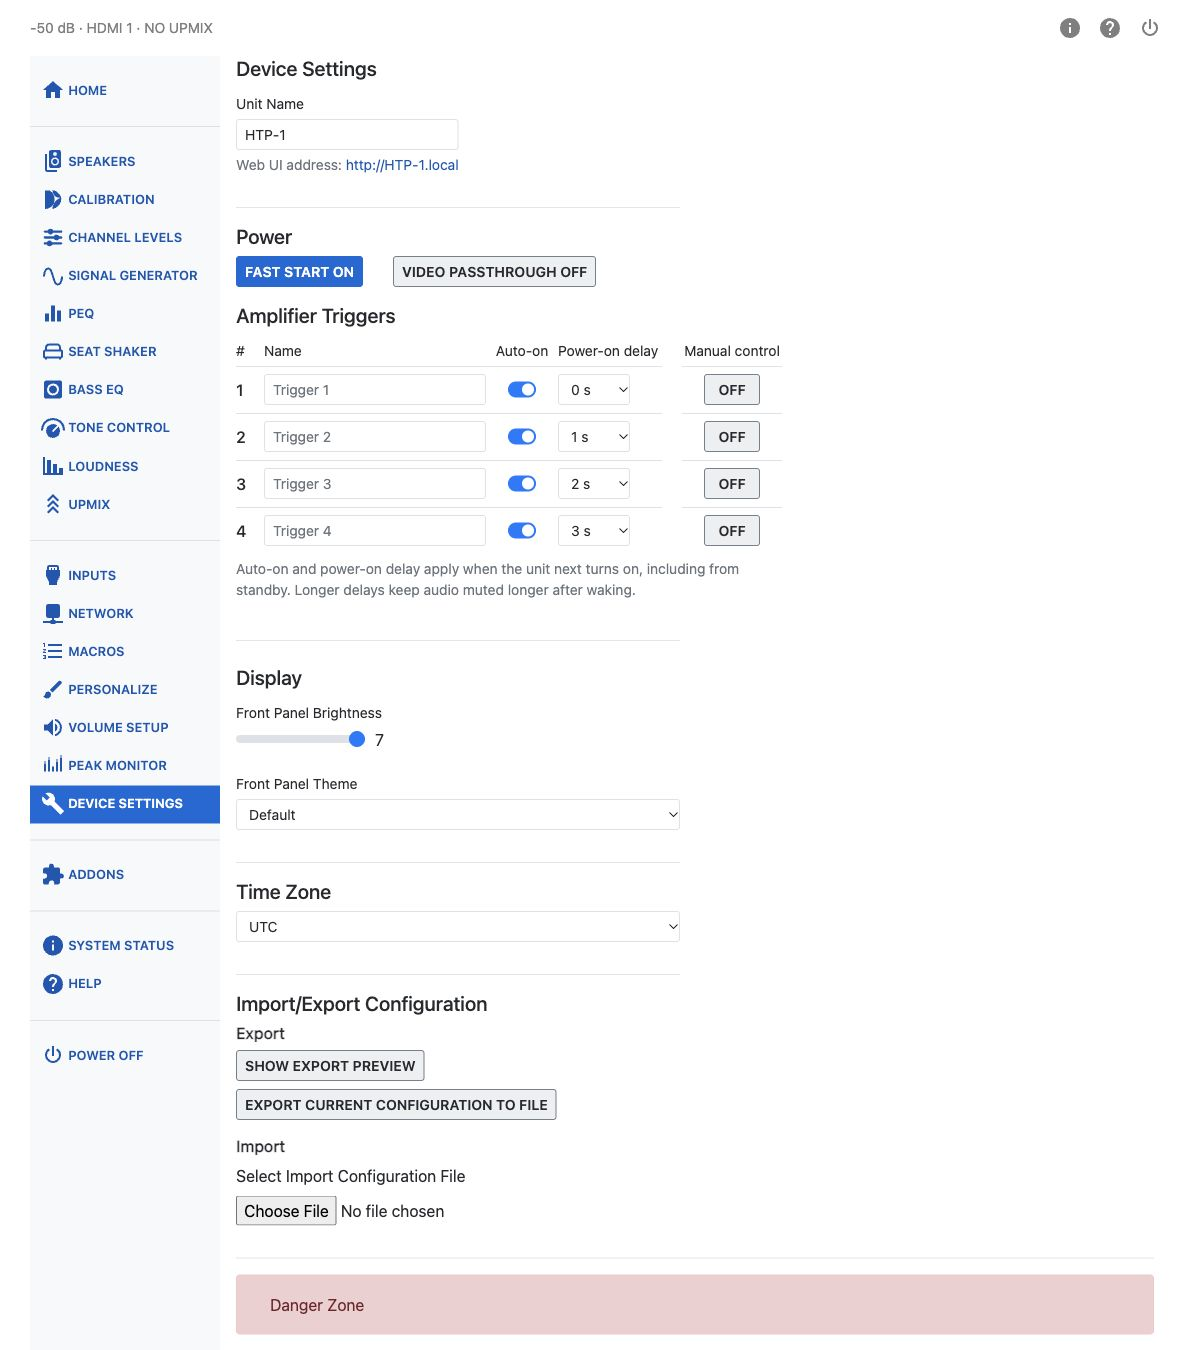
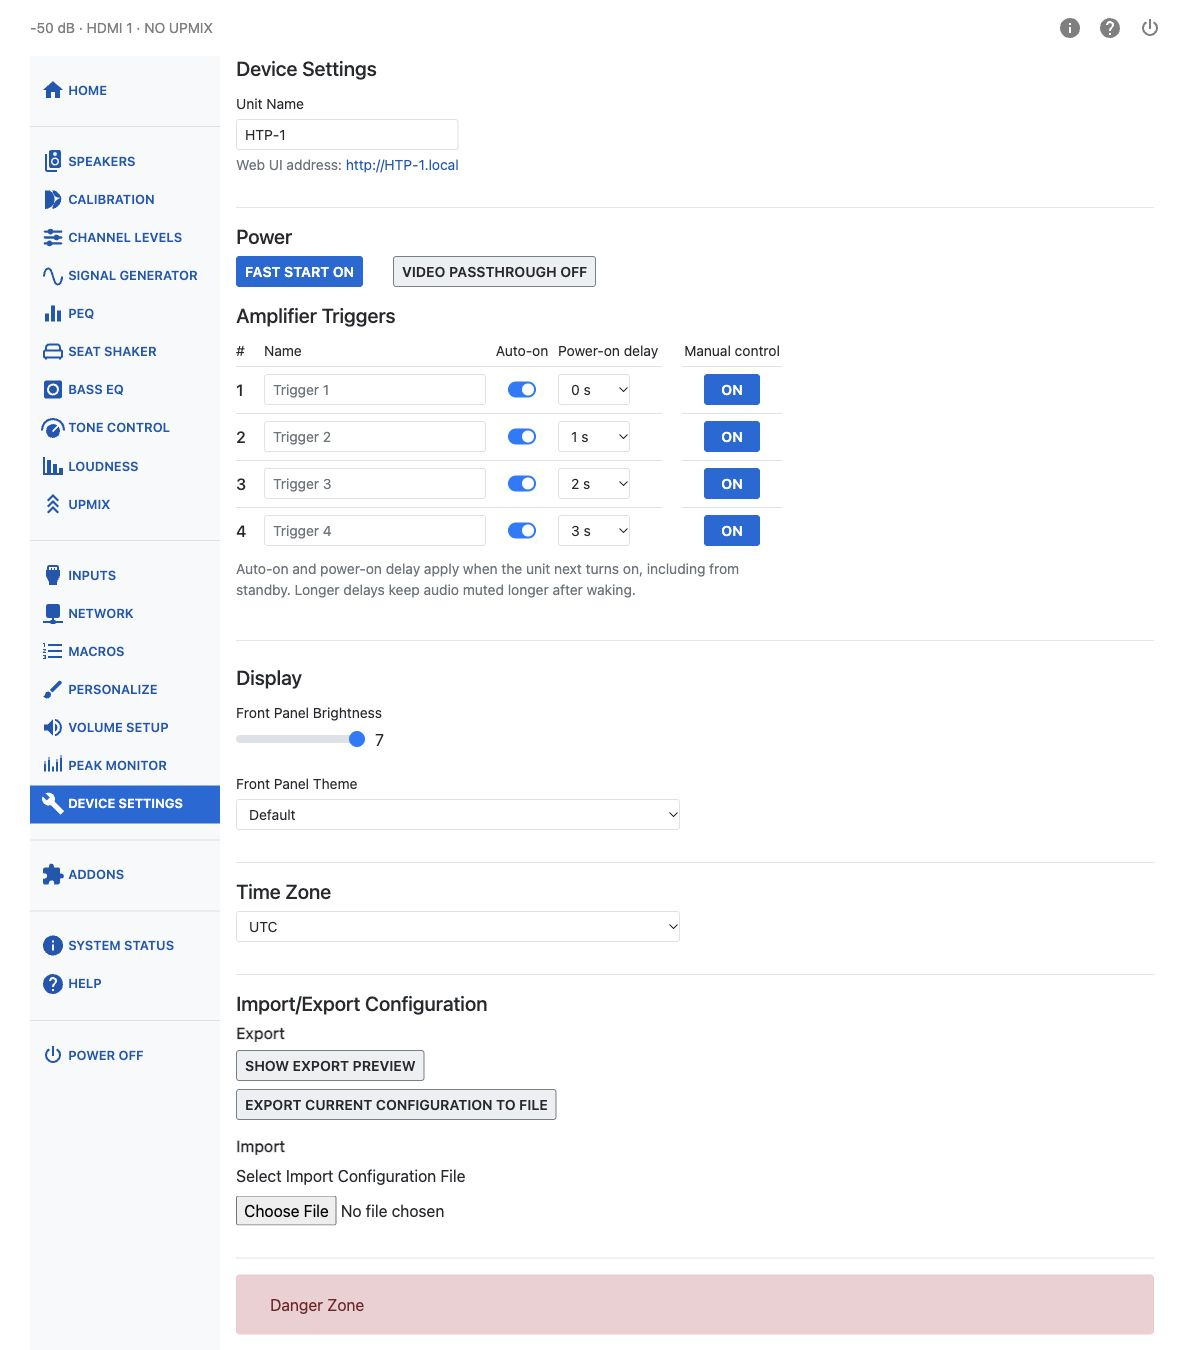
docs: correct Fast Start default and trigger screenshot

Changed region(s): [[0.5858, 0.28, 0.6475, 0.4044]]

diff --git a/docs/user-guide/device-settings.md b/docs/user-guide/device-settings.md
@@ -18,9 +18,9 @@ and open `htp-1.local`.
 
 **Fast Start** and **Video Passthrough** are two-state switches.
 
-**Fast Start off — Slow Boot (default):** The HTP-1 powers down virtually all internal components, reducing standby power consumption to less than **0.5 W**. The front panel becomes operational in approximately **1 minute 40 seconds**, while additional initialization continues in the background and may take up to **2 minutes 30 seconds** to complete. CEC features such as automatic power-on are unavailable in this standby mode, though trigger inputs still work.
+**Fast Start off — Slow Boot:** The HTP-1 powers down virtually all internal components, reducing standby power consumption to less than **0.5 W**. The front panel becomes operational in approximately **1 minute 40 seconds**, while additional initialization continues in the background and may take up to **2 minutes 30 seconds** to complete. CEC features such as automatic power-on are unavailable in this standby mode, though trigger inputs still work.
 
-**Fast Start on:** Most internal electronics remain powered, so the HTP-1 starts almost instantly. Only the front panel is turned off while in standby, resulting in standby power consumption nearly as high as when the unit is fully powered on. Enable Fast Start using the switch on this page.
+**Fast Start on (default):** Most internal electronics remain powered, so the HTP-1 starts almost instantly. Only the front panel is turned off while in standby, resulting in standby power consumption nearly as high as when the unit is fully powered on. Enable Fast Start using the switch on this page.
 
 **Video Passthrough** lets video pass through the HTP-1 while the unit is in standby. It only works when Fast Start is on.
 

diff --git a/docs/development/manual-screenshot-checklist.md b/docs/development/manual-screenshot-checklist.md
@@ -155,3 +155,10 @@ Page overviews and native front-panel captures are unchanged.
 - [x] `ui-export-preview-crop.png`
 
 All unfinished screenshot items listed above remain pending.
+
+## Adopted effective-defaults correction
+
+- [x] `ui-device-settings.jpg`: approved 1200 px isolated rc1 capture now shows all four trigger outputs On, representing settled power-on with the default Auto-on settings and 0/1/2/3-second delays. Fast Start remains On and Video Passthrough remains Off.
+- [x] Device Settings → Power now identifies Fast Start On as the software default, consistent with rc1 initialization and the screenshot.
+
+No physical-unit settings were changed. Physical-default confirmation and third-party Dirac app replacements retain their pending/deferred status above; no other outstanding item is closed by this update.
